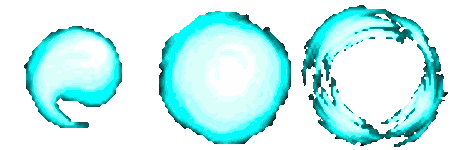
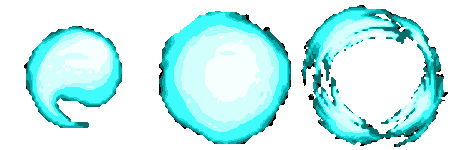
petit rework burst

diff --git a/stats.js b/stats.js
@@ -13,7 +13,7 @@ function get_default_combos(){
 }
 
 function get_burst_stats(){
-    return {slag : 3, fdur : 6, elag : 12, degats : 0, landinglag : 8, hitstun : 60, hurtx : 4., hurty : 5., hitboxxs : 15, hitboxxe : 47,hitboxys : 1, hitboxye : 75, hitboxxouv : 20, blood_height : 0, blockstun : 12, blockx : 1.7, hiteffect : "burst", hitboxxeyscaling : 0, hitlag : 5, hitsound : "lhit", blood : "", damageonblock : 1, disponibility : "stand", voiceline : "lmov", movx : 0, coupwav : "coup"}
+    return {slag : 8, fdur : 6, elag : 12, degats : 0, landinglag : 8, hitstun : 60, hurtx : 4., hurty : 5., hitboxxs : 15, hitboxxe : 47,hitboxys : 1, hitboxye : 75, hitboxxouv : 20, blood_height : 0, blockstun : 12, blockx : 1.7, hiteffect : "burst", hitboxxeyscaling : 0, hitlag : 5, hitsound : "lhit", blood : "", damageonblock : 1, disponibility : "stand", voiceline : "lmov", movx : 0, coupwav : "coup"}
 }
 
 var default_combos = get_default_combos();

diff --git a/home.js b/home.js
@@ -555,7 +555,7 @@ function main(){
 		afficher(){
 			if(this.dur==0){this.delete();return;}
 			var a = 0;
-			if(this.dur<=3){a=2;}
+			if(this.dur<=5){a=2;}
 			else if(this.dur <= 21){a=1;}
 			let coords = {offx:a*150,width:150,offy:0,height:150,decx:0,decy:-10};
 			ctx.scale(2*this.orientation,2);
@@ -4269,7 +4269,8 @@ function main(){
 		{
 			if(this.canthurt){return;}
 			if(this.mov=="burst"){
-				if(Math.sqrt((this.x-other.x)**2+(this.y-other.y)**2)<100){
+				var stats = this.charac.coups.get(this.mov);
+				if(Math.sqrt((this.x-other.x)**2+(this.y-other.y)**2)<100 && entre(this.movlag,stats.elag+1,stats.elag+stats.fdur)){
 					other.hurt(this,this.charac.coups.get(this.mov));
 				}
 			}
